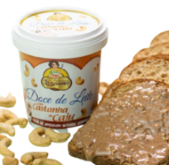
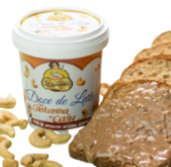
Add files via upload
ajustando tamanho das imagens

diff --git a/pageProduct.html b/pageProduct.html
@@ -11,7 +11,7 @@
     <link rel="icon" href="./img/logo1.png" type="image/x-icon">
 </head>
 <body>
-    <h2 class="estacao-suplemento">Estação<span>Suplementos</span></h2>
+    <h2 class="estacao-suplemento">Estação<span>Suplemento</span></h2>
     <section class="container-produtos">  
     </section>
     <div>
